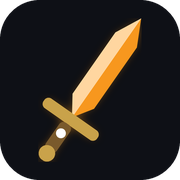
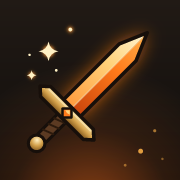
파비콘·앱 아이콘을 대장간 테마로 교체
- 탭용 단순 SVG(icon.svg) + favicon.ico(16·32·48 레이어 개별 렌더)
- 상세 원본(icons/icon-full.svg)에서 apple-touch 180, 192, 512, maskable 512 생성
- 재생성 스크립트 icons/build.py (resvg-py + pillow)
- theme-color·manifest 색을 새 바탕색 #15110e 로 맞춤, ?v=2 로 파비콘 캐시 무효화

diff --git a/web/public/index.html b/web/public/index.html
@@ -6,7 +6,7 @@
 <title>⚔ 강화 RPG</title>
 <meta name="description" content="무기를 강화하고, 깨지면 처음부터 다시. 친구들과 함께하는 확률 강화 RPG 웹게임 — 사냥·채굴·싸움·파티 레이드까지.">
 <link rel="canonical" href="https://ganghwa.beartanh.dev/">
-<meta name="theme-color" content="#0e1016">
+<meta name="theme-color" content="#15110e">
 
 <!-- 링크 공유 미리보기 (카카오톡·디스코드·슬랙 등). og:image 는 절대 URL 이어야 스크래퍼가 읽는다 -->
 <meta property="og:type" content="website">
@@ -21,10 +21,12 @@
 <meta property="og:image:alt" content="강화 RPG — 희귀 +16부터 초월 +70까지 강화되는 검">
 <meta name="twitter:card" content="summary_large_image">
 
-<!-- 아이콘 -->
-<link rel="icon" href="/favicon.ico" sizes="48x48">
-<link rel="apple-touch-icon" href="/apple-touch-icon.png">
-<link rel="manifest" href="/manifest.webmanifest">
+<!-- 아이콘 (원본·재생성: web/icons/build.py). ?v= 는 브라우저의 파비콘 캐시를 깨기 위한 것 — 아이콘을 바꾸면 올린다.
+     sizes="32x32" 를 붙여야 크롬이 .ico 대신 SVG 를 고른다 -->
+<link rel="icon" href="/favicon.ico?v=2" sizes="32x32">
+<link rel="icon" href="/icon.svg?v=2" type="image/svg+xml">
+<link rel="apple-touch-icon" href="/apple-touch-icon.png?v=2">
+<link rel="manifest" href="/manifest.webmanifest?v=2">
 
 <!-- 표제용 서체: Hahmlet(한글 세리프, OFL) — 무기 이름·강화 버튼·타이틀에만 쓴다 -->
 <link rel="preconnect" href="https://fonts.googleapis.com">

diff --git a/web/icons/build.py b/web/icons/build.py
@@ -1,0 +1,57 @@
+"""아이콘 세트 생성기 — SVG 원본 2장에서 public/ 의 아이콘 파일을 전부 만든다.
+
+  icons/icon-full.svg  상세 버전(불티·불씨·보석)  → 홈 화면·PWA·로그인 엠블럼용 PNG
+  public/icon.svg      단순 버전(탭 16~32px용)    → favicon.ico, 그리고 최신 브라우저 탭에 그대로 쓰임
+
+실행 (web/ 에서):
+  pip install resvg-py pillow
+  python3 icons/build.py
+"""
+import io
+import re
+from pathlib import Path
+
+import resvg_py
+from PIL import Image
+
+WEB = Path(__file__).resolve().parent.parent
+PUB = WEB / "public"
+FULL = (WEB / "icons" / "icon-full.svg").read_text(encoding="utf-8")
+SMALL = (PUB / "icon.svg").read_text(encoding="utf-8")
+
+
+def render(svg: str, size: int) -> Image.Image:
+    png = resvg_py.svg_to_bytes(svg_string=svg, width=size, height=size)
+    return Image.open(io.BytesIO(bytes(png))).convert("RGBA")
+
+
+def full_bleed(svg: str) -> str:
+    # 둥근 모서리를 없앤 정사각형 — iOS·안드로이드가 자기 모양으로 다시 잘라내므로 모서리까지 채워 둔다
+    return svg.replace('rx="112"', 'rx="0"', 1)
+
+
+def maskable(svg: str) -> str:
+    # 마스커블 안전영역은 가운데 지름 80% 원. 바탕은 그대로 두고 전경(#art)만 80% 로 줄인다
+    svg = full_bleed(svg)
+    return svg.replace('<g id="art">', '<g id="art" transform="translate(256 256) scale(.8) translate(-256 -256)">', 1)
+
+
+def no_spark(svg: str) -> str:
+    # 16px 에서는 불티가 회색 얼룩으로 뭉개지므로 뺀다
+    return re.sub(r'<g class="spark">.*?</g>', "", svg, flags=re.S)
+
+
+outputs = {
+    "apple-touch-icon.png": render(full_bleed(FULL), 180),
+    "icon-192.png": render(FULL, 192),
+    "icon-512.png": render(FULL, 512),
+    "icon-mask.png": render(maskable(FULL), 512),
+}
+for name, im in outputs.items():
+    im.save(PUB / name, optimize=True)
+    print("wrote", name, im.size)
+
+# favicon.ico — 16·32·48 레이어를 각각 따로 렌더해서 담는다 (큰 그림을 축소한 것보다 또렷함)
+ico = {16: render(no_spark(SMALL), 16), 32: render(SMALL, 32), 48: render(SMALL, 48)}
+ico[48].save(PUB / "favicon.ico", sizes=[(16, 16), (32, 32), (48, 48)], append_images=[ico[16], ico[32]])
+print("wrote favicon.ico", sorted(ico))
